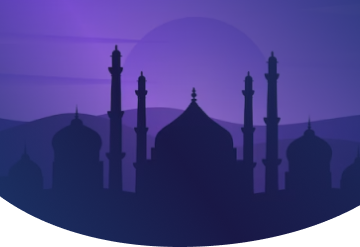
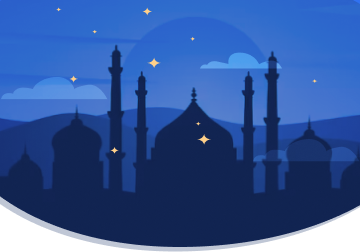
handle issues

diff --git a/lib/features/notification/view/widget/azkar_notification.dart b/lib/features/notification/view/widget/azkar_notification.dart
@@ -4,7 +4,6 @@ import 'package:flutter_bloc/flutter_bloc.dart';
 import '../../../../core/constants/colors.dart';
 import '../../bussiness_logic/notification_cubit.dart';
 import '../../bussiness_logic/notification_state.dart';
-
 class AzkarNotification extends StatelessWidget {
   const AzkarNotification({super.key});
 
@@ -18,9 +17,7 @@ class AzkarNotification extends StatelessWidget {
             Text(
               'الاذكار',
               style: TextStyle(
-                  fontSize: 20,
-                  fontWeight: FontWeight.w800,
-                  color: AppColor.primary),
+                  fontSize: 20, fontWeight: FontWeight.w800, color: AppColor.primary),
             ),
             const Spacer(),
             BlocBuilder<NotificationCubit, NotificationState>(
@@ -28,12 +25,9 @@ class AzkarNotification extends StatelessWidget {
                 return Transform.scale(
                   scale: 0.8,
                   child: Switch(
-                    value:
-                        context.read<NotificationCubit>().isAzkarNotification,
+                    value: context.read<NotificationCubit>().isAzkarNotification,
                     onChanged: (value) {
-                      context
-                          .read<NotificationCubit>()
-                          .changeAzkarNotification();
+                      context.read<NotificationCubit>().changeAzkarNotification();
                     },
                     activeColor: AppColor.white,
                     activeTrackColor: AppColor.primary,
@@ -45,33 +39,38 @@ class AzkarNotification extends StatelessWidget {
             ),
           ],
         ),
-        const SizedBox(
-          height: 10,
-        ),
-
-        if( context.read<NotificationCubit>().isAzkarNotification)...
-    {    BlocBuilder<NotificationCubit, NotificationState>(
-          builder: (context, state) {
-          int?  time= state is ChangeNotificationTime? state.durationInMinutes:null; 
-            return Slider(
-              min: 15,
-              max: 240,
-              divisions: 12,
-              label: time.toString(),
-              value:(time??15).toDouble(),
-              onChanged: (double value) {
-           NotificationCubit.get(context).changeNotificationTime(value.toInt());
-              },
-              onChangeEnd: (double value) {
-                // Reschedule the task with the updated duration
-                if ( context.read<NotificationCubit>().isAzkarNotification) {
-                  NotificationCubit.get(context).reScheduleNotification(value.toInt());
-                }
-              },
-            );
-          },
-        ),}
-        // Text("Task will run every ${state.} minutes."),
+        const SizedBox(height: 10),
+        if (context.read<NotificationCubit>().isAzkarNotification) ...{
+          BlocBuilder<NotificationCubit, NotificationState>(
+            builder: (context, state) {
+              int? time = state is ChangeNotificationTime ? state.durationInMinutes : null;
+              return Column(
+                children: [
+                  Text(
+                    'مدة التكرار: ${time?.toString() ?? "15"} دقائق',
+                    style: TextStyle(fontSize: 16, color: Colors.black),
+                  ),
+                  Slider(
+                    min: 15,
+                    max: 240,
+                    divisions: 12,
+                    activeColor: AppColor.blueTint2,
+                    label: time.toString(),
+                    value: (time?.toDouble() ?? 15),
+                    onChanged: (double value) {
+                    context.read<NotificationCubit>().changeNotificationTime(value.toInt());
+                    },
+                    onChangeEnd: (double value) {
+                      if (context.read<NotificationCubit>().isAzkarNotification) {
+                  context.read<NotificationCubit>().reScheduleNotification(value.toInt());
+                      }
+                    },
+                  ),
+                ],
+              );
+            },
+          ),
+        }
       ],
     );
   }

diff --git a/lib/features/home/views/screens/home_view.dart b/lib/features/home/views/screens/home_view.dart
@@ -9,6 +9,7 @@ import 'package:lnastaqim/core/utilits/extensions/arabic_numbers.dart';
 import 'package:lnastaqim/features/home/views/widgets/custom_drawer.dart';
 
 import '../../../../config/routing/app_routes_info/app_routes_name.dart';
+import '../../../../core/constants/colors.dart';
 import '../../../paryer_times/bussniess_logic/date_cubit.dart';
 import '../../../paryer_times/view/widgets/prayers_stepper.dart';
 import '../../../quran/bussniess_logic/moshaf_book_mark_cubit/moshaf_bookmark_cubit.dart';
@@ -50,18 +51,20 @@ class _HomeViewState extends State<HomeView> {
                   padding: EdgeInsets.only(top: 53.h, left: 17.w),
                   child:
                       Row(mainAxisAlignment: MainAxisAlignment.end, children: [
-                    // Padding(
-                    //   padding: const EdgeInsets.symmetric(horizontal: 9.0),
-                    //   child: GestureDetector(
-                    //     onTap: () {
-                    //       Get.toNamed(AppRouteName.notification);
-                    //     },
-                    //     child: const Icon(
-                    //       Icons.notifications_none_outlined,
-                    //       color: Colors.white,
-                    //     ),
-                    //   ),
-                    // ),
+
+                    Padding(
+                      padding: const EdgeInsets.symmetric(horizontal: 9.0),
+                      child: GestureDetector(
+                        onTap: () {
+                          Get.toNamed(AppRouteName.notification);
+                        },
+                        child: const Icon(
+                          Icons.notifications,
+                          color: Colors.white,
+                        ),
+                      ),
+                    ),
+                    const Expanded(child: SizedBox.shrink()),
                     // const Icon(
                     //   Icons.wb_sunny_outlined,
                     //   color: Colors.white,
@@ -78,7 +81,7 @@ class _HomeViewState extends State<HomeView> {
                   ]),
                 ),
                 Positioned(
-                    top: 128.h,
+                    top: 116.h,
                     left: 19.w,
                     child: SizedBox(
                       width: Get.width - 35.w,
@@ -88,13 +91,15 @@ class _HomeViewState extends State<HomeView> {
                           Expanded(
                             child: Column(
                               children: [
-                                const Text(
-                                  "القراءة الاخيرة",
-                                  style: TextStyle(
-                                      color: Colors.white,
-                                      fontSize: 21,
-                                      fontWeight: FontWeight.w400,
-                                      wordSpacing: -2),
+                                Padding(padding: EdgeInsets.only(left:  63.w),
+                                  child: const Text(textAlign: TextAlign.center,
+                                    "القراءة الاخيرة",
+                                    style: TextStyle(
+                                        color: Colors.white,
+                                        fontSize: 21,
+                                        fontWeight: FontWeight.w400,
+                                        wordSpacing: -2),
+                                  ),
                                 ),
                                 SizedBox(
                                   height: 2.h,

diff --git a/lib/features/notification/bussiness_logic/notification_cubit.dart b/lib/features/notification/bussiness_logic/notification_cubit.dart
@@ -9,84 +9,52 @@ import 'notification_state.dart';
 
 class NotificationCubit extends Cubit<NotificationState> {
   final WorkManagerService _workManagerService;
-
   NotificationCubit(this._workManagerService) : super(NotificationInitial()) {
     _loadNotificationStates();
   }
-static NotificationCubit get(BuildContext context)=>BlocProvider.of<NotificationCubit>(context);
-
 
   bool isSalahNabiNotification = true;
   bool isAzkarNotification = true;
-  int selectedFrequency = 15;
-  final List<int> frequencies = [15, 30, 60, 120, 240];
-
-  static const _boxName = 'userPreferences';
-  static const _frequencyKey = 'notification_frequency';
-
-  static Future<void> setFrequency(int frequency) async {
-    var box = await Hive.openBox(_boxName);
-    await box.put(_frequencyKey, frequency);
-    await box.close();
-  }
-
-  static Future<int> getFrequency() async {
-    var box = await Hive.openBox(_boxName);
-    int frequency = box.get(_frequencyKey, defaultValue: 15);
-    await box.close();
-    return frequency;
-  }
 
   void _loadNotificationStates() {
     final box = Hive.box<bool>('notificationBox');
-    isSalahNabiNotification =
-        box.get('isSalahNabiNotification', defaultValue: true)!;
+    isSalahNabiNotification = box.get('isSalahNabiNotification', defaultValue: true)!;
     isAzkarNotification = box.get('isAzkarNotification', defaultValue: true)!;
-    emit(SaveNotificationState(
-        isSalahNabiNotification: isSalahNabiNotification,
-        isAzkarNotification: isAzkarNotification));
+    emit(SaveNotificationState(isSalahNabiNotification: isSalahNabiNotification,isAzkarNotification:  isAzkarNotification));
   }
 
   void changeSalahNabiNotification() {
     isSalahNabiNotification = !isSalahNabiNotification;
-    final box = Hive.box<bool>('notificationBox');
-    box.put('isSalahNabiNotification', isSalahNabiNotification);
-
-    print('Salah Nabi Notification changed: $isSalahNabiNotification');
-
+    Hive.box<bool>('notificationBox').put('isSalahNabiNotification', isSalahNabiNotification);
     if (isSalahNabiNotification) {
-      log('Registering task...');
       _workManagerService.registerTask();
     } else {
-      log('Cancelling task...');
       _workManagerService.cancelTask('id4');
     }
-
     emit(ChangeSalahNabiNotification());
   }
 
   void changeAzkarNotification() {
     isAzkarNotification = !isAzkarNotification;
-    final box = Hive.box<bool>('notificationBox');
-    box.put('isAzkarNotification', isAzkarNotification);
-
+    Hive.box<bool>('notificationBox').put('isAzkarNotification', isAzkarNotification);
     if (isAzkarNotification) {
       _workManagerService.registerMoringAndEveningAzkarTask(15);
     } else {
       _workManagerService.cancelTask('id8');
     }
-
     emit(ChangeAzkarNotification());
   }
 
   void changeNotificationTime(int time) {
-   
     emit(ChangeNotificationTime(durationInMinutes: time));
   }
 
+ void reScheduleNotification(int durationInMinutes) {
+  // إلغاء المهمة القديمة
+  _workManagerService.cancelTask('id8');
 
-  reScheduleNotification(int durationInMinutes){
-_workManagerService.registerMoringAndEveningAzkarTask(durationInMinutes);
+  // تسجيل المهمة الجديدة بزمن التكرار المُحدث
+  _workManagerService.registerMoringAndEveningAzkarTask(durationInMinutes);
+}
 
-  }
 }

diff --git a/lib/features/notification/view/widget/salah_nabi_notification.dart b/lib/features/notification/view/widget/salah_nabi_notification.dart
@@ -4,7 +4,6 @@ import 'package:flutter_bloc/flutter_bloc.dart';
 import '../../../../../core/constants/colors.dart';
 import '../../bussiness_logic/notification_cubit.dart';
 import '../../bussiness_logic/notification_state.dart';
-
 class SalahNabiNotification extends StatelessWidget {
   const SalahNabiNotification({super.key});
 
@@ -16,9 +15,7 @@ class SalahNabiNotification extends StatelessWidget {
         Text(
           'صلي علي محمد',
           style: TextStyle(
-              fontSize: 20,
-              fontWeight: FontWeight.w800,
-              color: AppColor.primary),
+              fontSize: 20, fontWeight: FontWeight.w800, color: AppColor.primary),
         ),
         const Spacer(),
         BlocBuilder<NotificationCubit, NotificationState>(
@@ -26,12 +23,9 @@ class SalahNabiNotification extends StatelessWidget {
             return Transform.scale(
               scale: 0.8,
               child: Switch(
-                value:
-                    context.read<NotificationCubit>().isSalahNabiNotification,
+                value: context.read<NotificationCubit>().isSalahNabiNotification,
                 onChanged: (value) {
-                  context
-                      .read<NotificationCubit>()
-                      .changeSalahNabiNotification();
+                  context.read<NotificationCubit>().changeSalahNabiNotification();
                 },
                 activeColor: AppColor.white,
                 activeTrackColor: AppColor.primary,

diff --git a/lib/features/notification/view/notification_screen.dart b/lib/features/notification/view/notification_screen.dart
@@ -1,4 +1,6 @@
 import 'package:flutter/material.dart';
+import 'package:flutter_screenutil/flutter_screenutil.dart';
+import 'package:get/get.dart';
 import 'package:lnastaqim/core/constants/colors.dart';
 
 import '../../../core/constants/images.dart';
@@ -14,12 +16,12 @@ class NotificationScreen extends StatelessWidget {
       body: SafeArea(
         child: Stack(
           children: [
-            const Image(
-              fit: BoxFit.fill,
-              image: AssetImage(AppImages.notificationScreenBackground),
+             Image(width: Get.width,
+              fit: BoxFit.cover,
+              image: const AssetImage(AppImages.notificationScreenBackground),
             ),
             Padding(
-              padding: const EdgeInsets.symmetric(vertical: 20),
+              padding:  EdgeInsets.symmetric(vertical: 20,horizontal: 10.w),
               child: Column(
                 children: [
                   Text(
@@ -30,7 +32,7 @@ class NotificationScreen extends StatelessWidget {
                         color: AppColor.primary),
                   ),
                   const SalahNabiNotification(),
-                  const SizedBox(height: 20),
+                   SizedBox(height: 5.h),
                   const AzkarNotification(),
                 ],
               ),

diff --git a/lib/core/utilits/services/work_manager_service.dart b/lib/core/utilits/services/work_manager_service.dart
@@ -22,17 +22,18 @@ class WorkManagerService {
     );
   }
 
-  void registerMoringAndEveningAzkarTask(int durationInMinutes) {
-    Workmanager().registerPeriodicTask(
-      'id8',
-      'name8',
-      frequency: const Duration(hours: 1),
-      inputData: {
-        'تسابيح':
-            "بِسْمِ اللهِ الرَّحْمنِ الرَّحِيم\nقُلْ هُوَ ٱللَّهُ أَحَدٌ، ٱللَّهُ ٱلصَّمَدُ، لَمْ يَلِدْ وَلَمْ يُولَدْ، وَلَمْ يَكُن لَّهُۥ كُفُوًا أَحَدٌۢ."
-      },
-    );
-  }
+ void registerMoringAndEveningAzkarTask(int durationInMinutes) {
+  Workmanager().registerPeriodicTask(
+    'id8', // المعرف الفريد للمهمة
+    'name8', // اسم المهمة
+    frequency: Duration(minutes: durationInMinutes), // تحديث الزمن هنا
+    inputData: {
+      'تسابيح':
+          "بِسْمِ اللهِ الرَّحْمنِ الرَّحِيم\nقُلْ هُوَ ٱللَّهُ أَحَدٌ، ٱللَّهُ ٱلصَّمَدُ، لَمْ يَلِدْ وَلَمْ يُولَدْ، وَلَمْ يَكُن لَّهُۥ كُفُوًا أَحَدٌۢ."
+    },
+  );
+}
+
 
   void registerFajrTask() {
     Workmanager().registerPeriodicTask(
